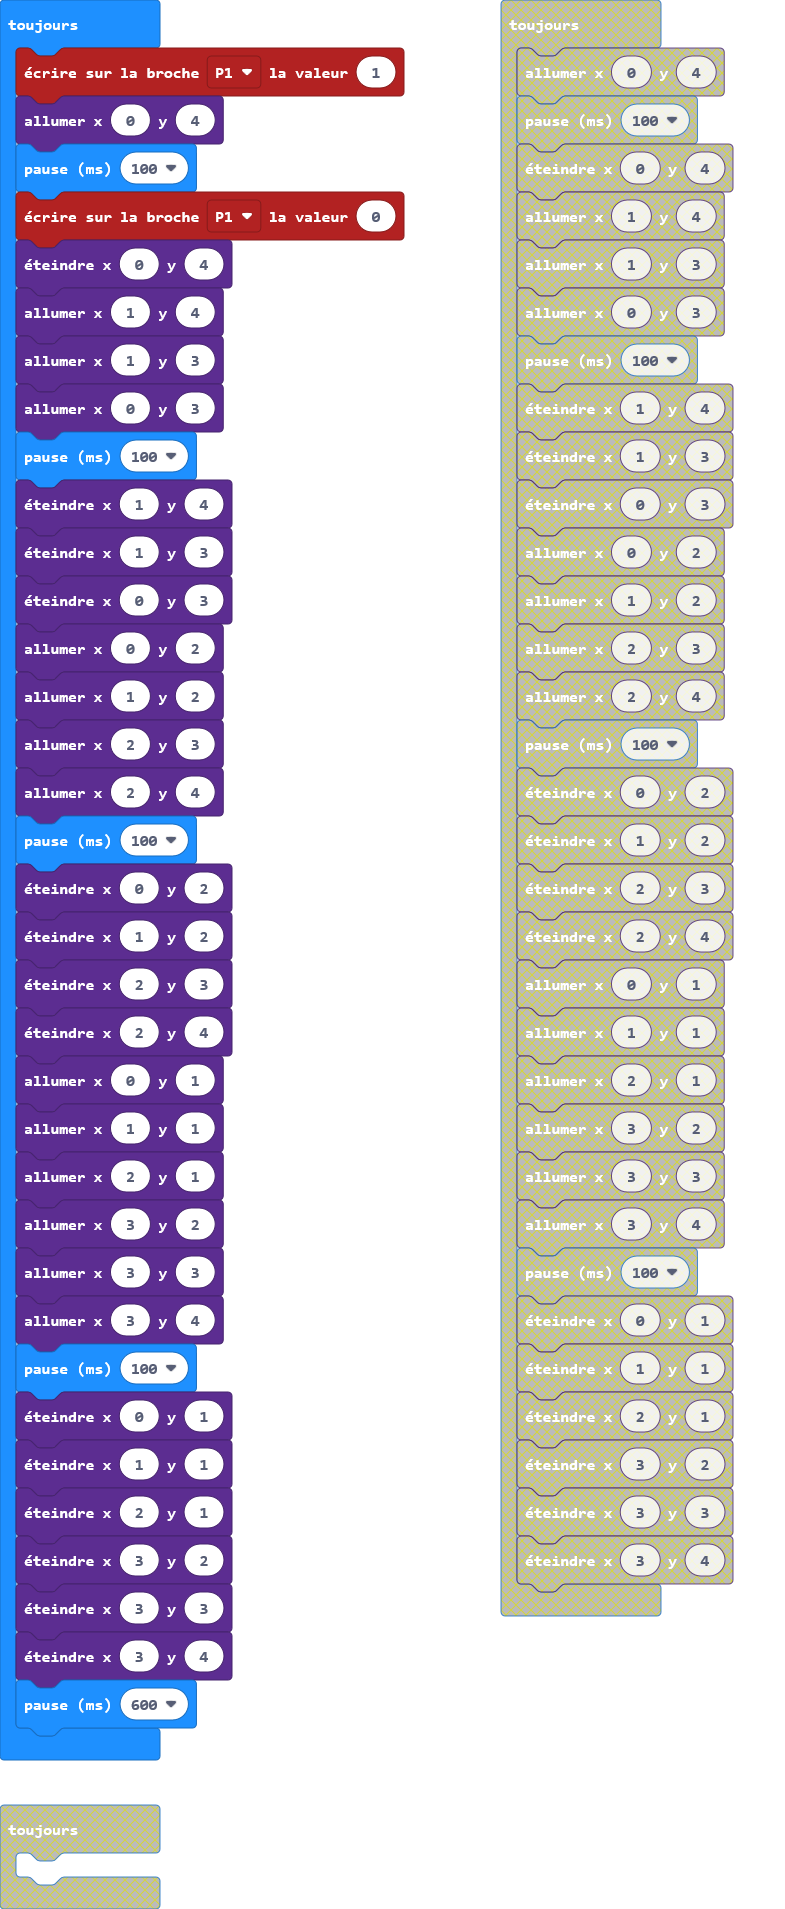
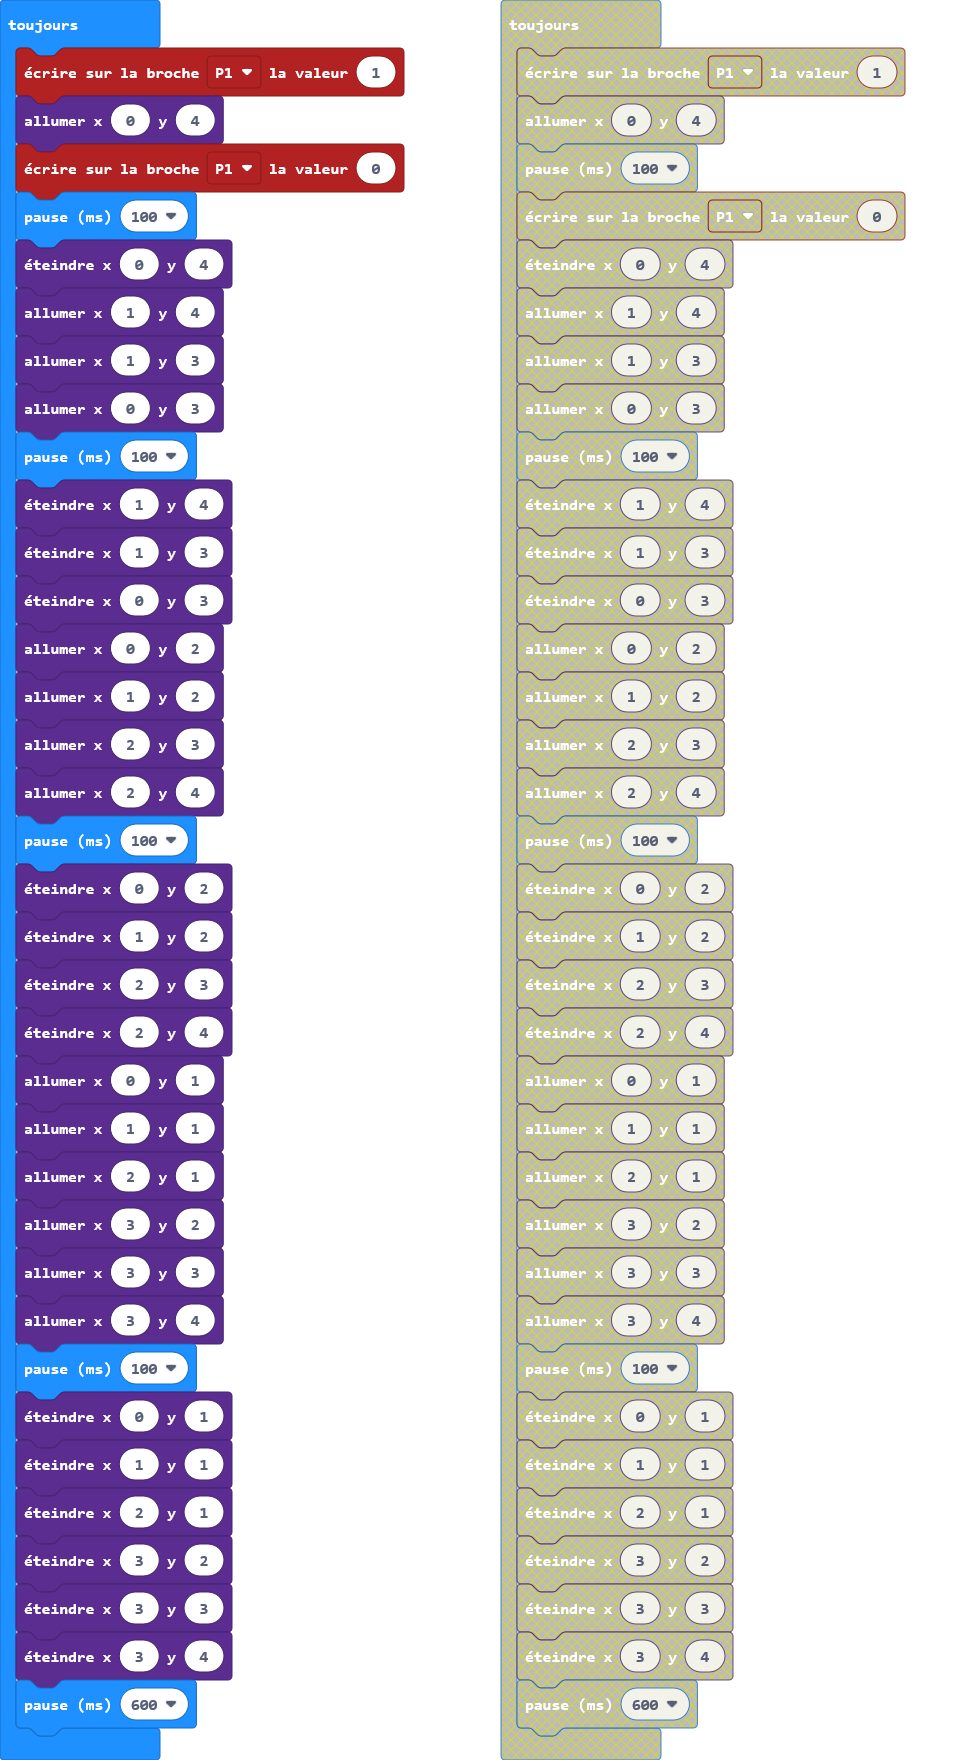
Mise à jour main.blocks, main.ts, main.py

diff --git a/main.ts b/main.ts
@@ -1,8 +1,8 @@
 basic.forever(function () {
     pins.digitalWritePin(DigitalPin.P1, 1)
     led.plot(0, 4)
-    basic.pause(100)
     pins.digitalWritePin(DigitalPin.P1, 0)
+    basic.pause(100)
     led.unplot(0, 4)
     led.plot(1, 4)
     led.plot(1, 3)

diff --git a/main.py b/main.py
@@ -1,12 +1,6 @@
 def on_forever():
-    pins.digital_write_pin(DigitalPin.P1, 1)
     led.plot(0, 4)
-    basic.pause(100)
-    pins.digital_write_pin(DigitalPin.P1, 0)
-    led.unplot(0, 4)
-    basic.pause(900)
-    led.plot(0, 4)
-    basic.pause(100)
+    basic.pause(43)
     led.unplot(0, 4)
     led.plot(1, 4)
     led.plot(1, 3)
@@ -39,7 +33,3 @@ def on_forever():
     led.unplot(3, 4)
     basic.pause(600)
 basic.forever(on_forever)
-
-def on_forever2():
-    pass
-basic.forever(on_forever2)
